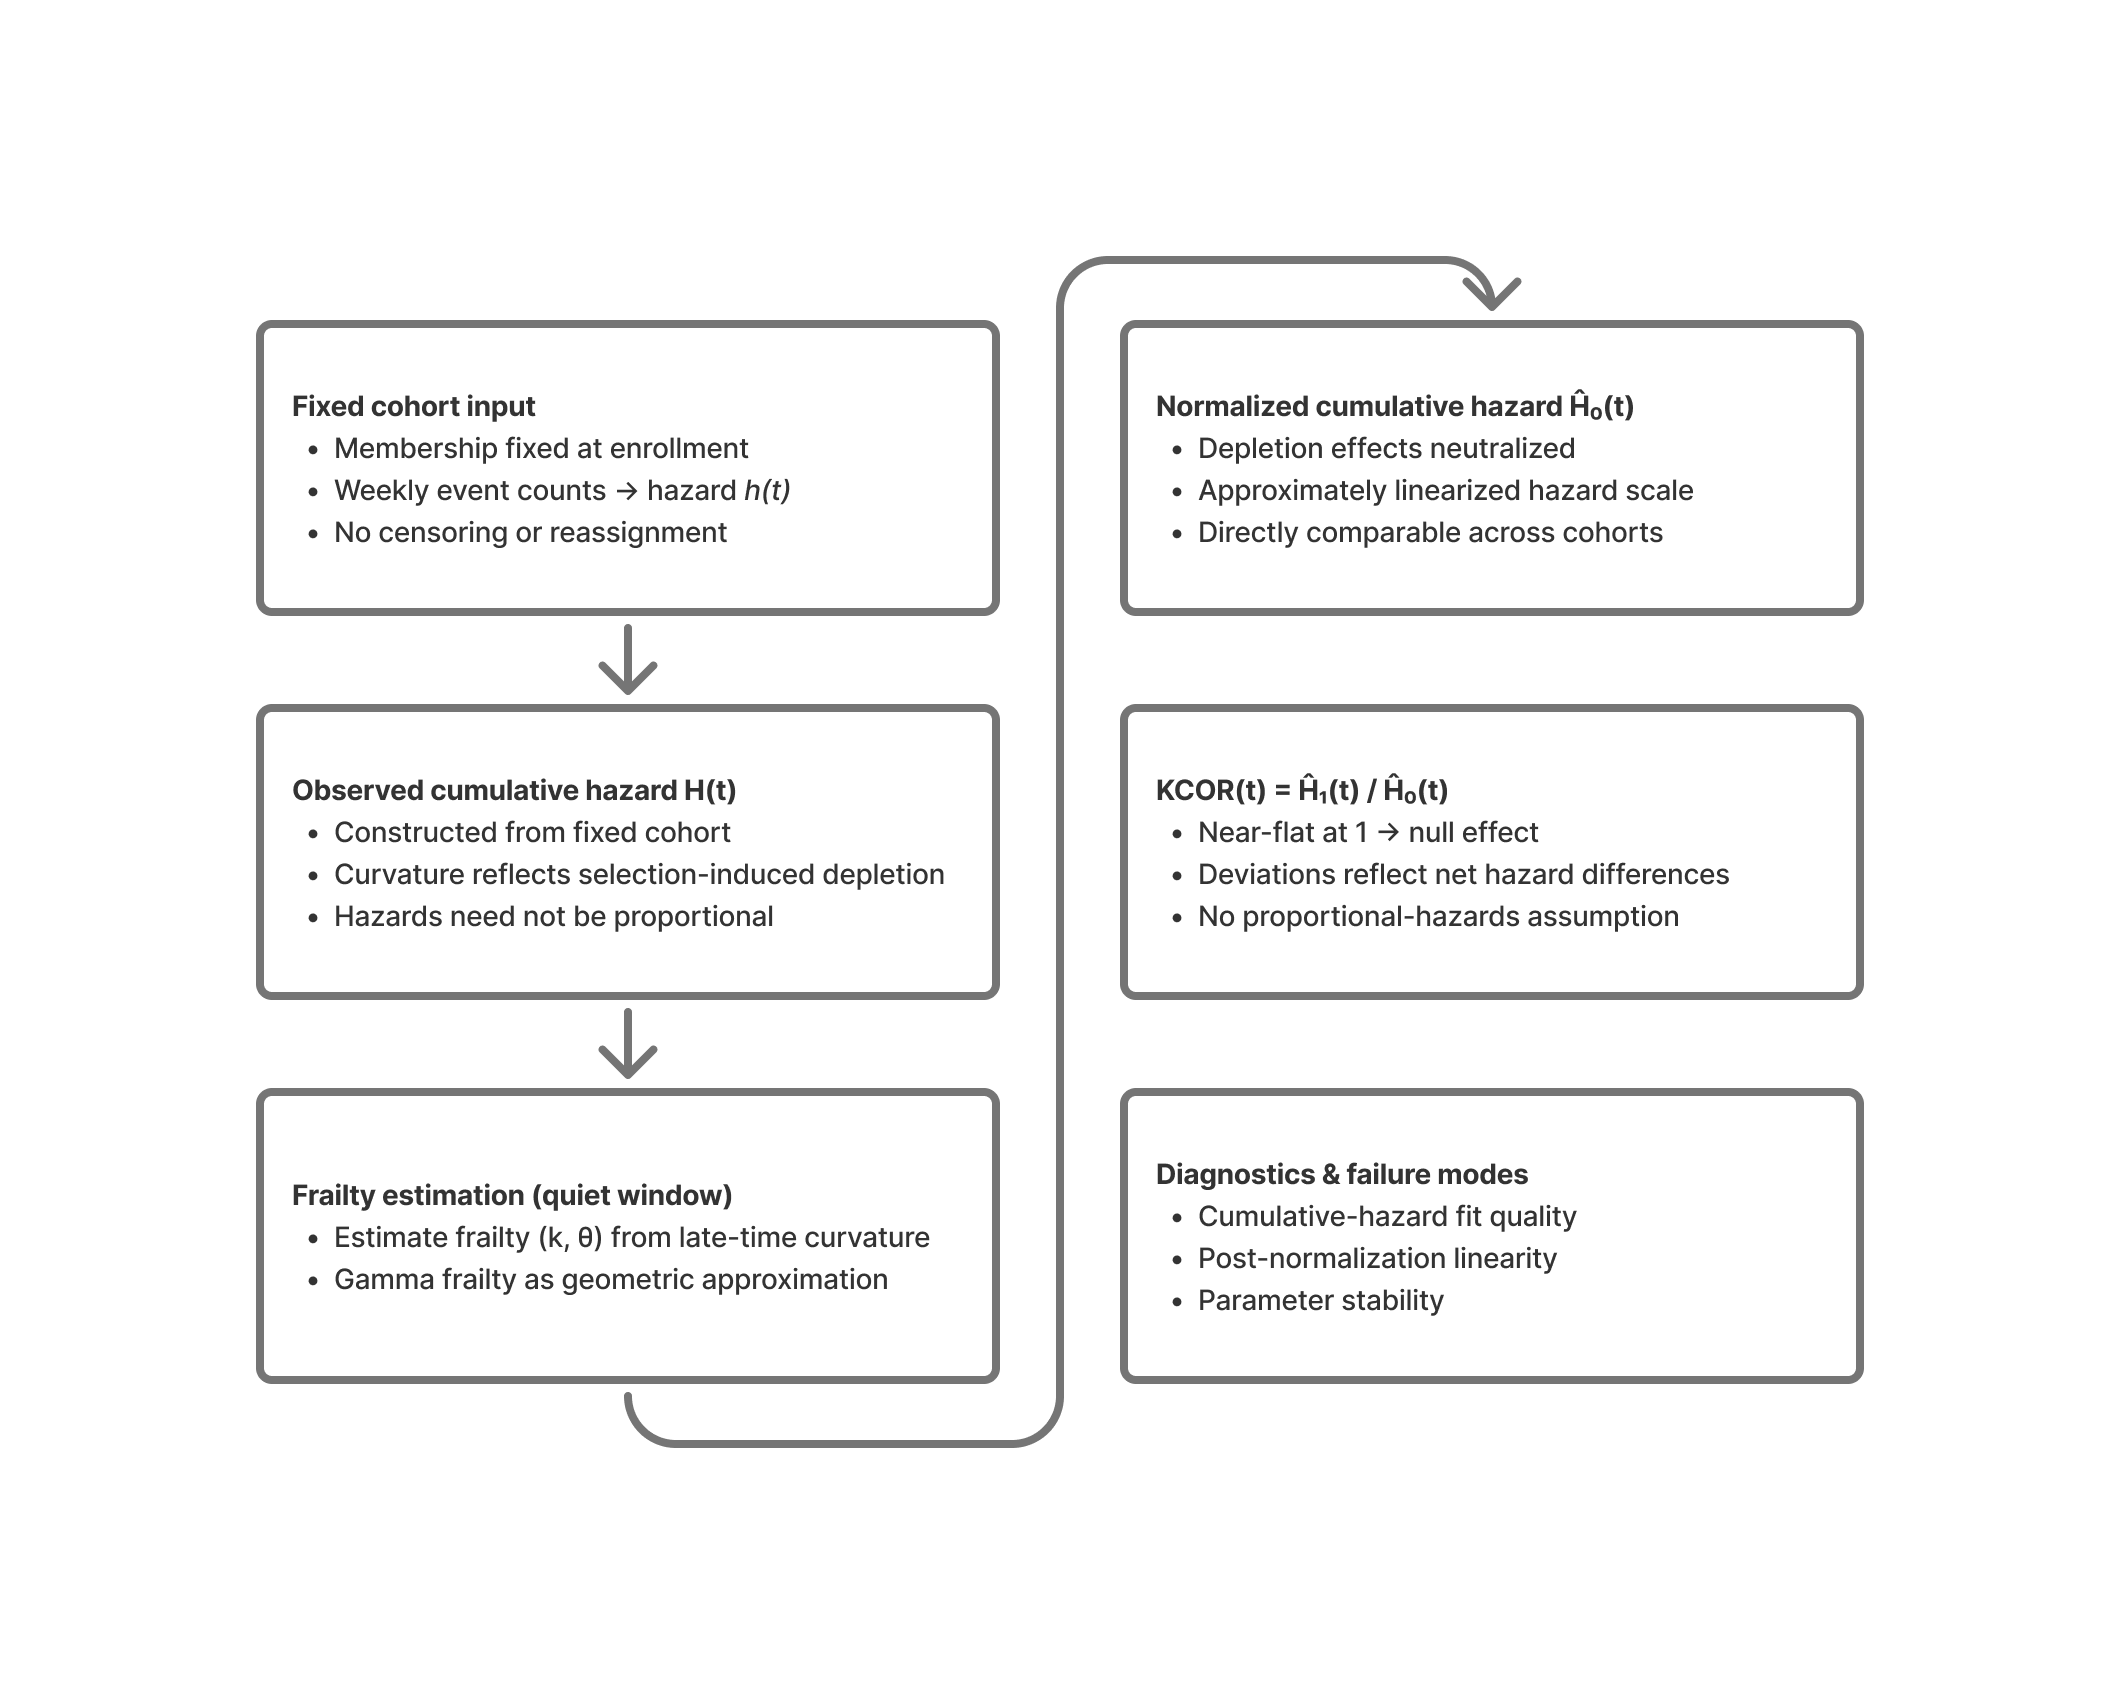
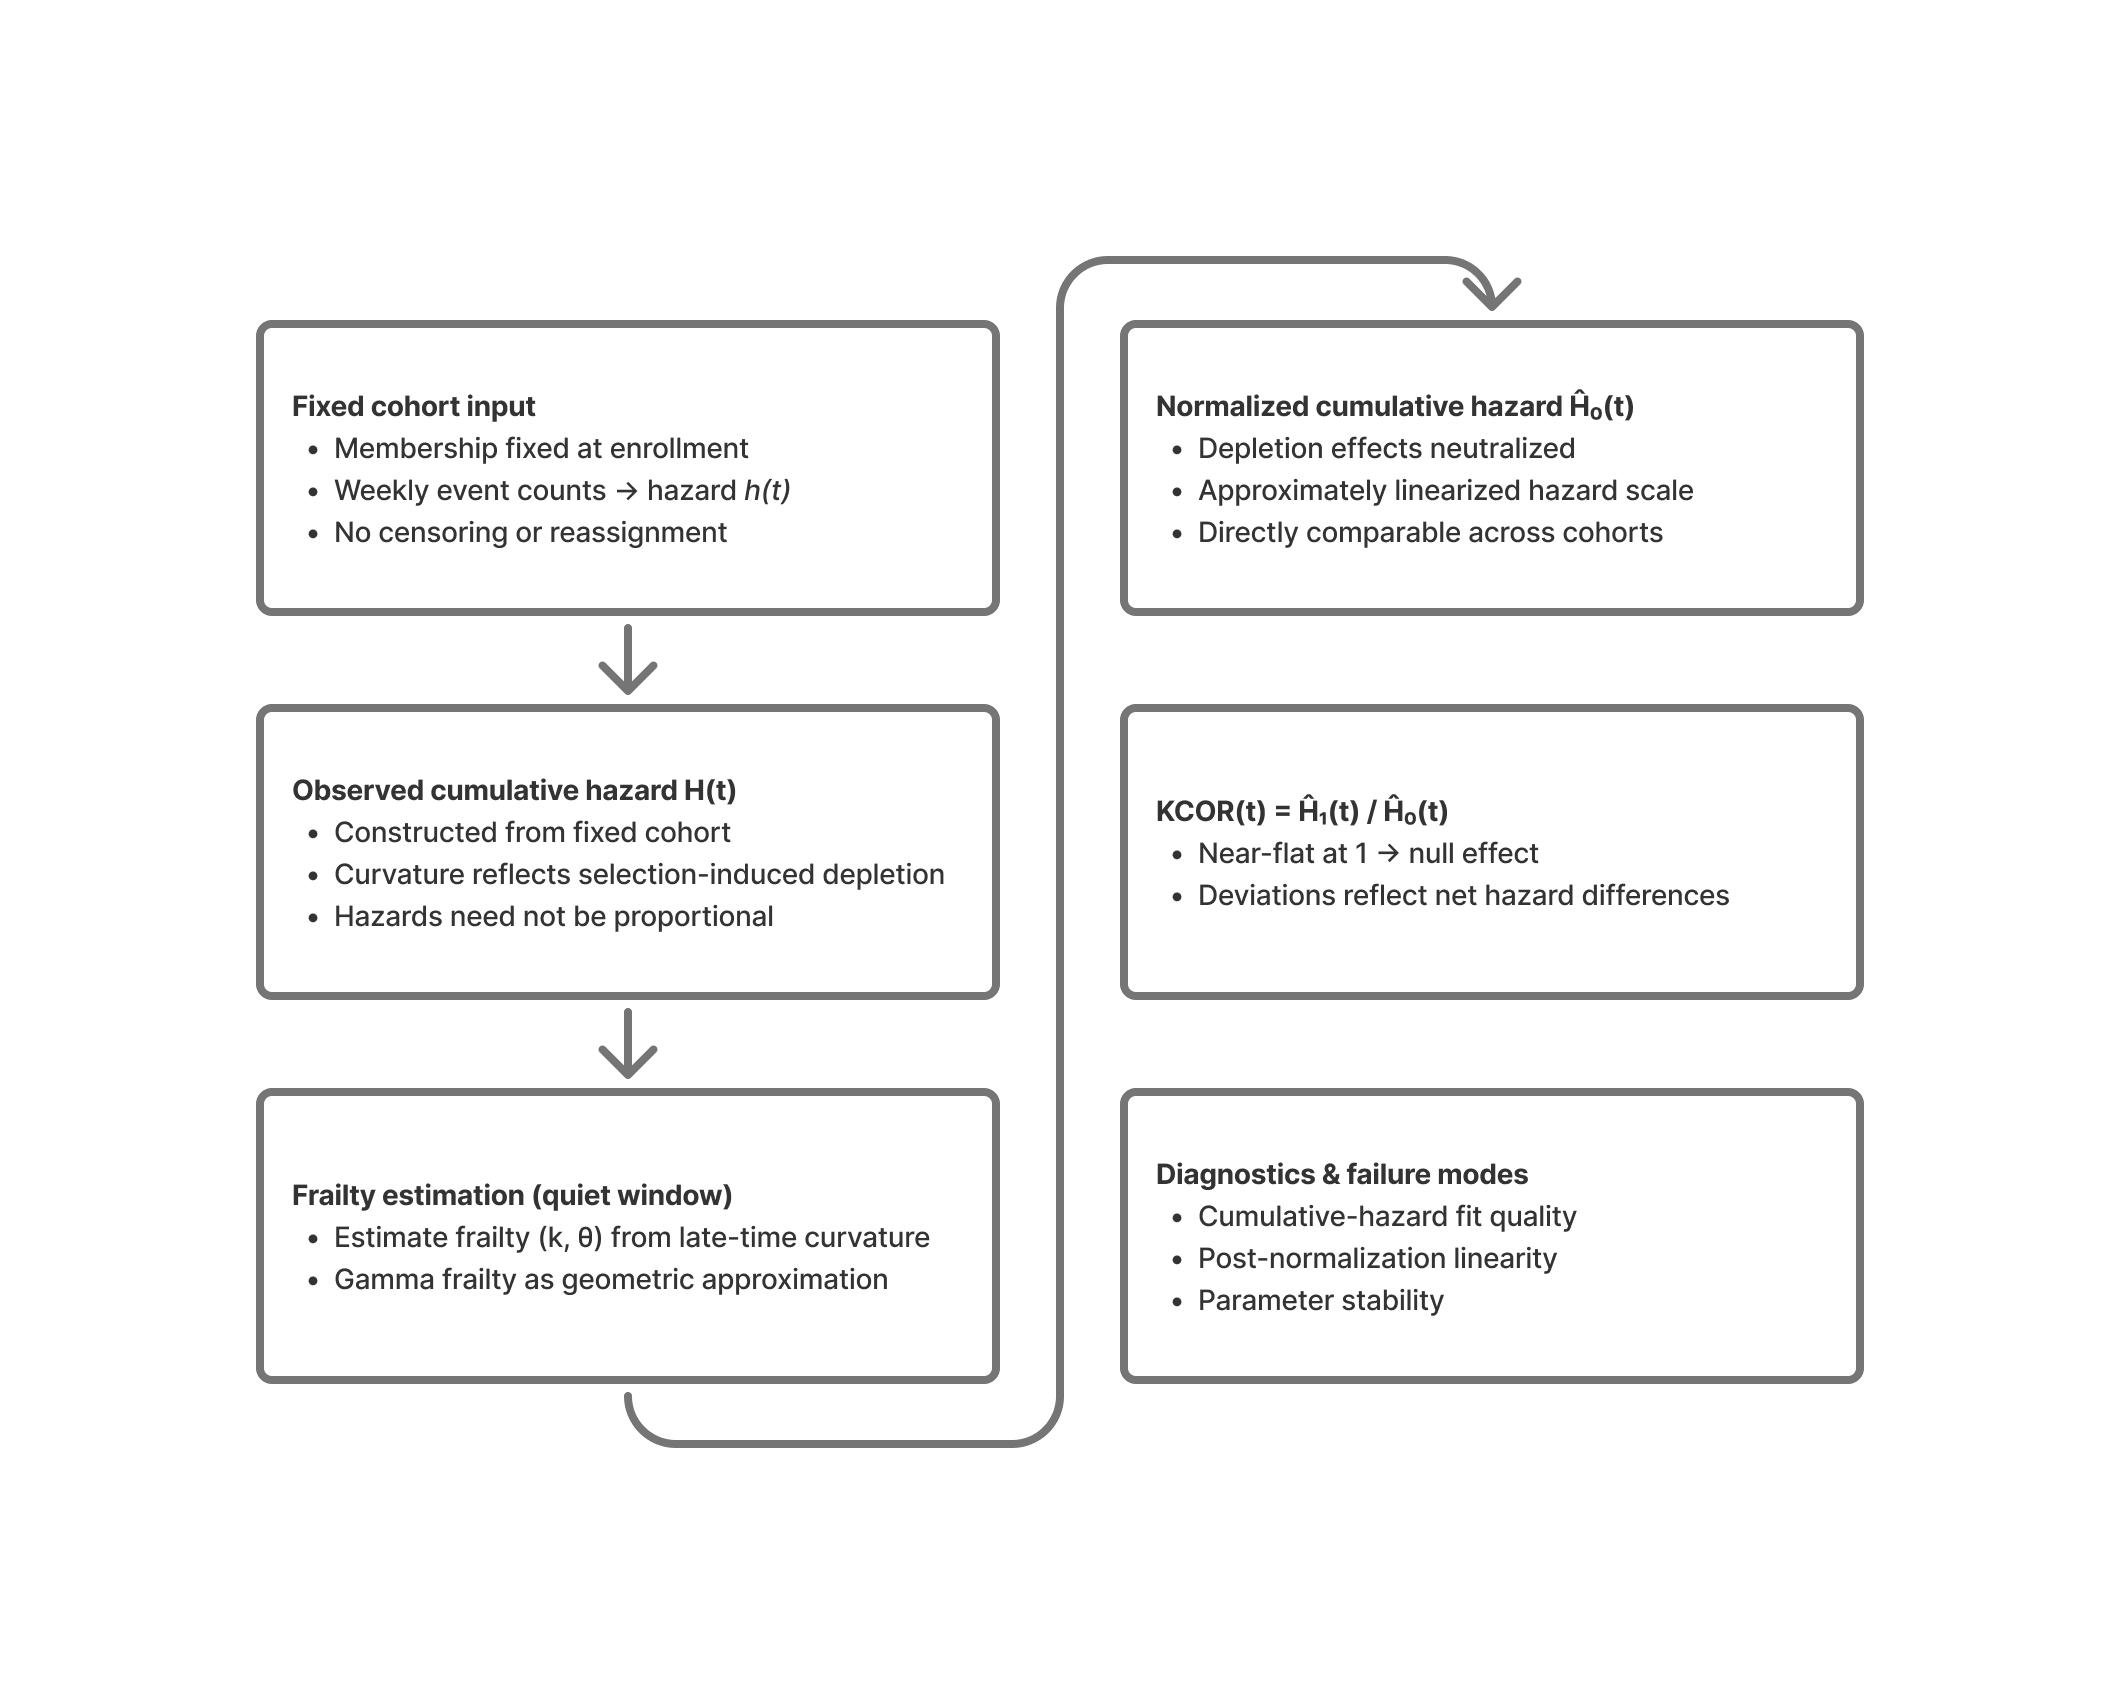
added style_guide. Fixed infographic to remove redundancy.

Changed region(s): [[0.5292, 0.4354, 0.8094, 0.5599]]

diff --git a/documentation/preprint/paper_style_guide.md b/documentation/preprint/paper_style_guide.md
@@ -1,0 +1,198 @@
+# KCOR Paper Style Guide
+
+This document defines formatting, citation, numbering, and terminology
+conventions for the KCOR methods paper and related manuscripts.
+All automated or manual edits must conform to this guide.
+
+---
+
+## 1. Document Processing & Tooling
+
+### 1.1 Markdown engine
+- Authoritative source format: **Pandoc Markdown**
+- Final outputs: PDF (primary), DOCX (secondary)
+
+### 1.2 Auto-numbering
+- **All numbering is automatic**
+- No manual numbering of:
+  - Sections
+  - Figures
+  - Tables
+  - Equations
+  - References
+
+Do NOT hard-code numbers anywhere in the manuscript.
+
+### 1.3 Abstract requirements
+- **Word limit**: 250 words maximum (SIM requirement)
+- **No citations** in the abstract
+- **No section headings** within abstract unless journal requires
+
+### 1.4 Keywords
+- 4–10 methodological keywords
+- Prefer method-focused terms over application-specific terms
+
+---
+
+## 2. Figures
+
+### 2.1 Syntax
+Figures must use Pandoc identifiers:
+
+```md
+![<caption text>](path/to/figure.png){#fig:unique_id}
+
+2.2 Referencing
+
+Refer to figures using: Figure @fig:unique_id
+
+Every figure must be referenced at least once in the text
+
+Figures may float; proximity to first reference is preferred but not required
+
+2.3 Captions
+
+Captions must be self-contained
+
+End captions with a period
+
+Do not repeat caption text in the body
+
+3. Tables
+3.1 Syntax
+
+Tables must include a caption and identifier:
+
+Table: <caption text>. {#tbl:unique_id}
+
+3.2 Referencing
+
+Refer using: Table @tbl:unique_id
+
+Every table must be referenced in text at least once
+
+4. Equations
+4.1 Display equations
+
+Use display math blocks for numbered equations
+
+Assign identifiers where referenced:
+
+$$
+H(t) = \int_0^t h(s)\,ds
+$$ {#eq:cumhaz}
+
+4.2 Referencing
+
+Refer using: Eq. (@eq:cumhaz) or Equation (@eq:cumhaz)
+
+Do not hard-code equation numbers
+
+5. Citations & References
+5.1 Citation style
+
+Journal target: Statistics in Medicine (SIM)
+
+Citation style: AMA
+
+CSL file: american-medical-association.csl
+
+5.2 In-text citations
+
+Numeric, superscript
+
+Order of appearance
+
+Multiple citations: ¹–³ or ¹,²,⁴
+
+5.3 Reference list
+
+Auto-generated by Pandoc
+
+No manual numbering
+
+Journal abbreviations per Chemical Abstracts / PubMed conventions
+
+6. Terminology Conventions (LOCKED)
+6.1 Frailty-related terms
+Conceptual role	Approved term	Usage
+Process	Frailty normalization	Section headers, algorithm steps
+Result	Depletion-neutralized	Adjective for hazards, KCOR
+Model	Gamma-frailty model / fit	Technical description only
+
+Prohibited as primary terms:
+
+“frailty neutralization” (noun phrase)
+
+“gamma-frailty inversion” (headline term)
+
+6.2 Outcome terminology
+
+Generic term: event
+
+Timing: event date or event time
+
+Use “death” only when discussing mortality explicitly
+
+6.3 Exposure terminology
+
+Generic term: intervention count
+
+COVID-specific: dose (allowed in examples only)
+
+6.4 Defined terms
+
+- *Near-flat*: Italicize on first use; defined operationally as median KCOR(t) within ±5% of unity over the diagnostic window
+- **Quiet window**: Use consistently (hyphenated as compound modifier only, e.g., "quiet-window procedure"); avoid "quiet period" unless explicitly synonymous
+
+7. Style & Tone
+
+First-person plural ("we") is acceptable for methodological descriptions
+
+No rhetorical questions
+
+No policy advocacy language
+
+Methods-first framing
+
+Explicit limits and assumptions
+
+8. Sections & Structure
+
+Methods sections may be long and technical
+
+Assumptions must be explicit and centralized (§2.1.1)
+
+Validation must include:
+
+- Negative controls
+- Positive controls
+- Diagnostics
+
+8.1 Required statements
+
+The following must appear in the manuscript:
+
+- "does not estimate instantaneous hazard ratios" (Discussion §4.1)
+- "not a substitute for randomization" (Limitations §5)
+- Explicit causal interpretation caveat
+
+9. Supplements
+
+Supplementary material is allowed and encouraged
+
+Supplement is not included in word count
+
+Figures and tables in the supplement must be numbered separately
+
+10. Change Control
+
+Any change that:
+
+introduces new terminology,
+
+alters numbering behavior,
+
+or changes citation style
+
+must first update this STYLE_GUIDE.md.

diff --git a/documentation/preprint/paper.md b/documentation/preprint/paper.md
@@ -585,7 +585,7 @@ KCOR provides a principled approach to retrospective cohort comparison under sel
 
 ### Ethics approval and consent to participate
 
-Not applicable. This is a methods-only manuscript. The primary validation results use synthetic data. Empirical negative-control figures (Figures 3–4) use aggregated cohort summaries derived from Czech Republic administrative data; no record-level data are shared in this manuscript. [@sanca2024]
+Not applicable. This is a methods-only manuscript. The primary validation results use synthetic data. Empirical negative-control figures (Figures @fig:neg_control_10yr and @fig:neg_control_20yr) use aggregated cohort summaries derived from Czech Republic administrative data; no record-level data are shared in this manuscript. [@sanca2024]
 
 ### Consent for publication
 
@@ -618,7 +618,7 @@ Steven T. Kirsch conceived the method, wrote the code, performed the analysis, a
 
 ### Acknowledgements
 
-The author thanks Clare Craig and Jasmin Cardinal for helpful discussions and methodological feedback during the development of this work. All errors remain the author’s responsibility.
+The author thanks MIT Professor Retsef Levi and HART group chair Dr. Clare Craig for helpful discussions and methodological feedback during the development of this work. All errors remain the author’s responsibility.
 
 
 ---
